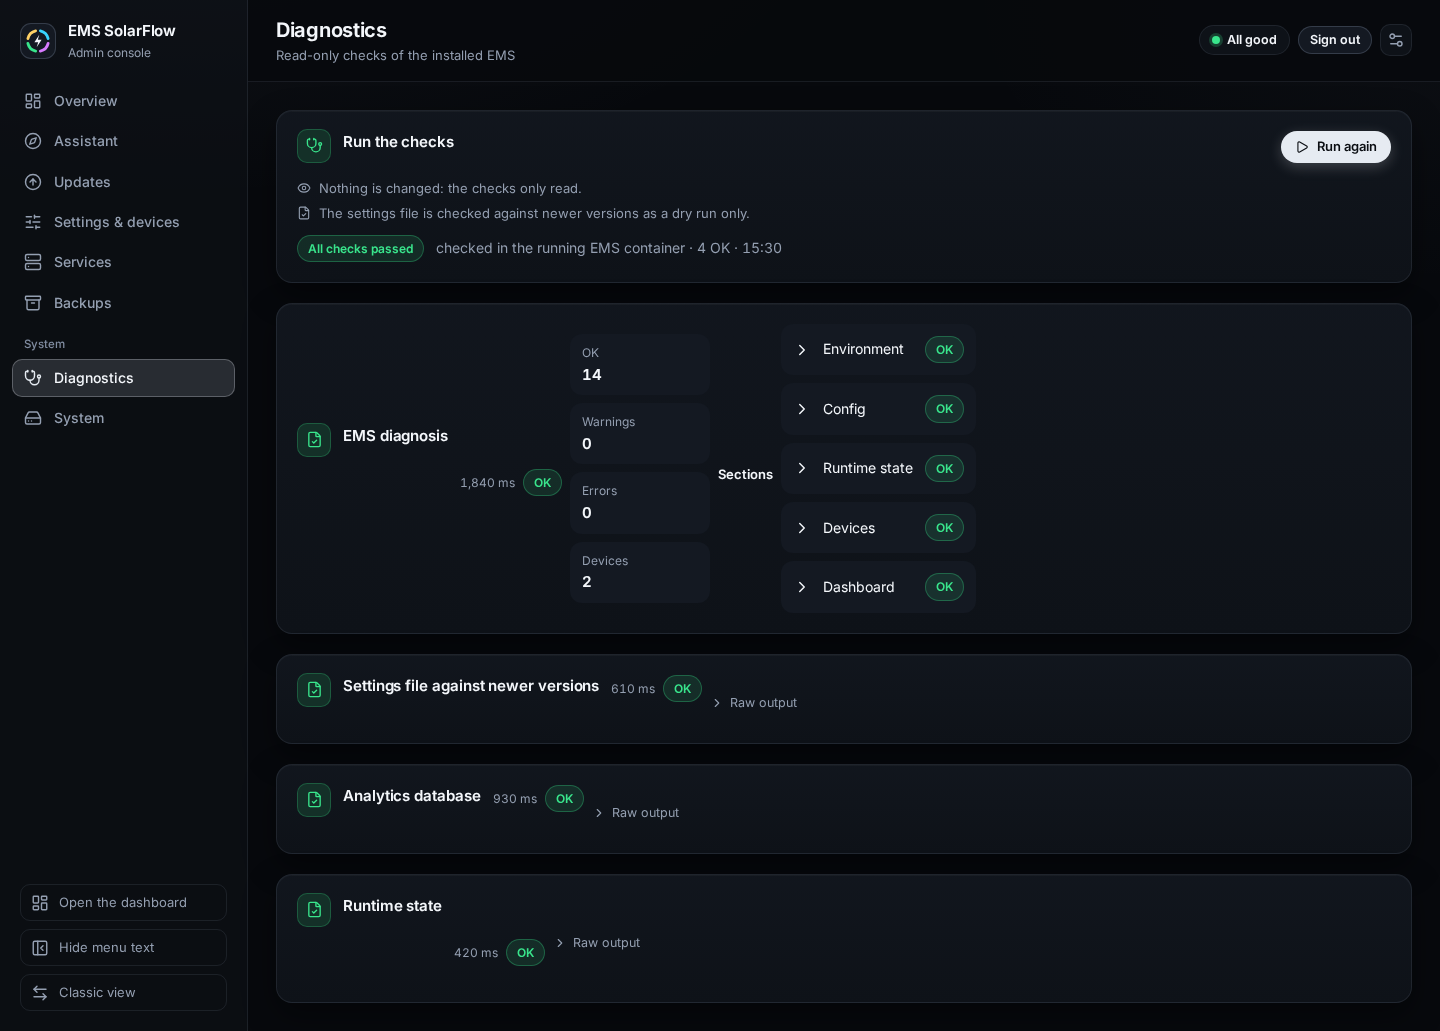
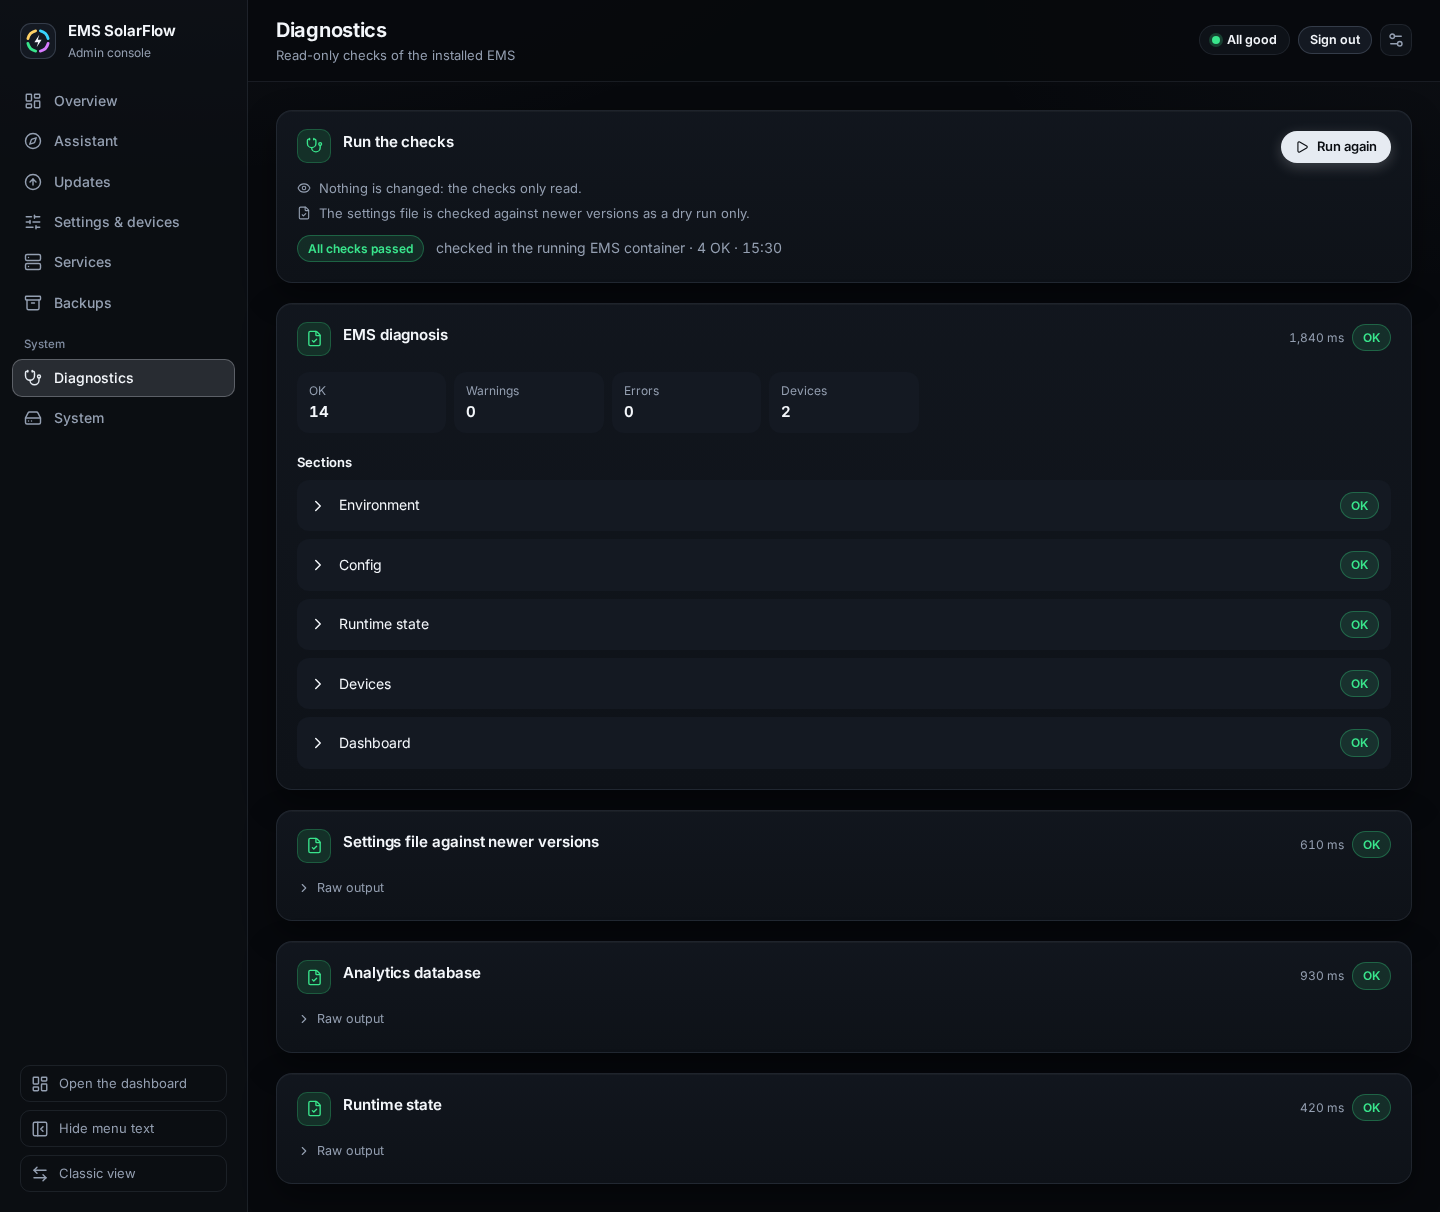
fix(admin-modern): the diagnostics check cards no longer take the checkbox label's layout
Each check's card carried the class "check", which the shared styles give
to a checkbox label: inline-flex in one row with a pointer cursor. The
title, the status, the counts and the sections of a check sat side by side.
The class served nothing and is gone, and a shared test now refuses a card
class that the shared styles already style.

diff --git a/admin/static/modern/assets/Diagnostics.js b/admin/static/modern/assets/Diagnostics.js
@@ -2,4 +2,4 @@
 import{$ as e,C as t,D as n,E as r,F as i,G as a,H as o,M as s,N as c,O as l,T as u,U as d,W as f,X as p,b as m,et as h,g,it as _,j as v,n as y,nt as b,x,z as S}from"./vendor.js";import{D as C,H as w,O as T,a as E,k as D,n as O,r as k,t as A}from"./Status.js";import{dt as j,ut as M}from"./admin.js";var N=l(`<div class="fact"><div class="fact-label"> </div><div class="fact-value num"> </div></div>`),P=l(`<div class="metrics svelte-1p044au"></div>`),F=l(`<div class="hint svelte-1p044au"><!><span lang="en"> </span></div>`),I=l(`<div class="cause inner svelte-1p044au"><!> <div><div class="cause-title svelte-1p044au" lang="en"> </div> <div class="muted" lang="en"> </div> <!></div></div>`),L=l(`<h3 class="sub svelte-1p044au"> </h3> <div class="causes svelte-1p044au"></div>`,1),R=l(`<li lang="en" class="svelte-1p044au"> </li>`),z=l(`<h3 class="sub svelte-1p044au"> </h3> <ul></ul>`,1),B=l(`<li class="error svelte-1p044au"><b> </b> · <span lang="en"> </span></li>`),V=l(`<li class="warning svelte-1p044au"><b> </b> · <span lang="en"> </span></li>`),H=l(`<ul class="lines svelte-1p044au"><!> <!></ul>`),U=l(`<p class="muted small svelte-1p044au"> </p>`),ee=l(`<details class="section inner svelte-1p044au"><summary class="svelte-1p044au"><!><span class="ellipsis" lang="en"> </span><!></summary> <!></details>`),te=l(`<div class="sections svelte-1p044au"></div>`),ne=l(`<!> <!> <!> <h3 class="sub svelte-1p044au"> </h3> <!>`,1);function W(s,c){h(c,!0);let l={ok:`c-ok`,warning:`c-warn`,error:`c-fault`,info:`c-idle`},v=[`info`,`warning`,`error`],y=[`ok`,`warning`,`error`,`devices`],C=e=>l[String(e||``).toLowerCase()]||`c-idle`;function E(e){return v.includes(e||`info`)?T(`diagnose.status.${e||`info`}`):e}function D(e){let t=[`ok`,`warning`,`error`,`info`].includes(e);return T(`diagnose.status.${t?e:`unknown`}`)}function k(e){let t=e=>y.includes(e)?y.indexOf(e):y.length;return Object.entries(e).sort(([e],[n])=>t(e)-t(n)||e.localeCompare(n))}function j(e){if(y.includes(e))return T(`diagnose.metric.${e}`);let t=e.replaceAll(`_`,` `);return t.charAt(0).toUpperCase()+t.slice(1)}var M=ne(),W=d(M),G=e=>{var t=P();m(t,21,()=>k(c.diagnosis.metrics),([e,t])=>e,(e,t)=>{var n=p(()=>_(i(t),2));let s=()=>i(n)[0],c=()=>i(n)[1];var l=N(),d=o(l),m=f(d,!0),h=a(d),g=f(h,!0);b(l),S((e,t)=>{u(m,e),u(g,t)},[()=>j(s()),()=>String(c())]),r(e,l)}),b(t),r(e,t)},K=p(()=>c.diagnosis.metrics&&Object.keys(c.diagnosis.metrics).length);t(W,e=>{i(K)&&e(G)});var q=a(W,2),J=e=>{var n=L(),s=d(n),l=f(s,!0),h=a(s,2);m(h,21,()=>c.diagnosis.root_causes,x,(e,n)=>{var s=I(),c=o(s);{let e=p(()=>C(i(n).severity===`info`?`info`:i(n).severity)),t=p(()=>E(i(n).severity));A(c,{get tone(){return i(e)},get text(){return i(t)}})}var l=a(c,2),d=o(l),m=f(d,!0),h=a(d,2),g=f(h,!0),_=a(h,2),v=e=>{var t=F(),s=o(t);w(s,{name:`info`,size:`sm`});var c=a(s),l=f(c,!0);b(t),S(()=>u(l,i(n).suggested_next_check)),r(e,t)};t(_,e=>{i(n).suggested_next_check&&e(v)}),b(l),b(s),S(()=>{u(m,i(n).title||i(n).code),u(g,i(n).message)}),r(e,s)}),b(h),S(e=>u(l,e),[()=>T(`diagnose.rootCauses`)]),r(e,n)};t(q,e=>{c.diagnosis.root_causes?.length&&e(J)});var Y=a(q,2);m(Y,16,()=>[[`errors`,`error`],[`warnings`,`warning`]],([e,t])=>e,(e,o)=>{var s=p(()=>_(o,2));let l=()=>i(s)[0],h=()=>i(s)[1];var v=n(),y=d(v),C=e=>{var t=z(),n=d(t),o=f(n,!0),s=a(n,2);m(s,21,()=>c.diagnosis[l()],x,(e,t)=>{var n=R(),a=f(n,!0);S(()=>u(a,i(t))),r(e,n)}),b(s),S(e=>{u(o,e),g(s,1,`lines ${h()??``}`,`svelte-1p044au`)},[()=>T(`diagnose.global.${l()}`)]),r(e,t)};t(y,e=>{c.diagnosis[l()]?.length&&e(C)}),r(e,v)});var X=a(Y,2),Z=f(X,!0),Q=a(X,2),re=e=>{var n=te();m(n,21,()=>c.diagnosis.sections,e=>e.id||e.title,(e,n)=>{var s=ee(),c=o(s),l=o(c);w(l,{name:`chevron-right`});var d=a(l),h=f(d,!0),g=a(d);{let e=p(()=>C(i(n).status)),t=p(()=>D(i(n).status));A(g,{get tone(){return i(e)},get text(){return i(t)}})}b(c);var _=a(c,2),v=e=>{var t=H(),s=o(t);m(s,19,()=>i(n).errors||[],(e,t)=>`e${t}`,(e,t)=>{var n=B(),s=o(n),c=f(s,!0),l=a(s,2),d=f(l,!0);b(n),S(e=>{u(c,e),u(d,i(t))},[()=>T(`diagnose.status.error`)]),r(e,n)});var c=a(s,2);m(c,19,()=>i(n).warnings||[],(e,t)=>`w${t}`,(e,t)=>{var n=V(),s=o(n),c=f(s,!0),l=a(s,2),d=f(l,!0);b(n),S(e=>{u(c,e),u(d,i(t))},[()=>T(`diagnose.status.warning`)]),r(e,n)}),b(t),r(e,t)},y=e=>{var t=U(),n=f(t,!0);S(e=>u(n,e),[()=>T(`diagnose.sectionOk`)]),r(e,t)};t(_,e=>{i(n).errors?.length||i(n).warnings?.length?e(v):e(y,-1)}),b(s),S(()=>{s.open=i(n).status!==`ok`,u(h,i(n).title||i(n).id)}),r(e,s)}),b(n),r(e,n)},$=e=>{{let t=p(()=>T(`diagnose.noSections`));O(e,{get text(){return i(t)}})}};t(Q,e=>{c.diagnosis.sections?.length?e(re):e($,-1)}),S(e=>u(Z,e),[()=>T(`diagnose.sections`)]),r(s,M),e()}var G=Object.freeze([`quick_diagnose`,`config_upgrade_dry_run`,`influx_status`,`runtime_status`]),K=Object.freeze({ok:`c-ok`,disabled:`c-idle`,warning:`c-warn`,failed:`c-fault`,timeout:`c-fault`,unavailable:`c-idle`,not_run:`c-idle`}),q=Object.freeze([`container`,`local`,`unavailable`]),J=Object.freeze({"EMS CLI diagnostics are unavailable because no running EMS container or local emsctl.py was found.":`diagnostics.unavailable`});function Y(e){let t=typeof e==`string`?e.trim():``;return!t||Object.hasOwn(J,t)?{key:J[t]||`diagnostics.unavailable`,text:``}:{key:null,text:t}}function X(e){return String(e||``).split(`
 `).map(e=>e.trim()).find(Boolean)||``}function Z(e){let t=String(e?.id||``),n=Object.hasOwn(K,e?.status)?e.status:`not_run`,r=typeof e?.message==`string`?e.message:``,i=``;!r&&n===`timeout`?i=`diagnostics.timedOut`:!r&&n!==`ok`&&(r=X(e?.stderr)||(n===`unavailable`?``:X(e?.stdout)),!r&&n===`unavailable`?i=`diagnostics.couldNotRun`:!r&&typeof e?.exit_code==`number`&&(i=`diagnostics.exitCode`));let a=[e?.stdout?String(e.stdout):``,e?.stderr?`stderr:\n${e.stderr}`:``].filter(Boolean).join(`
 
-`);return{id:t,nameKey:G.includes(t)?`diagnostics.check.${t}`:null,name:String(e?.label||t),status:n,tone:K[n],durationMs:typeof e?.duration_ms==`number`?e.duration_ms:null,message:r,messageKey:i,exitCode:e?.exit_code,raw:a,truncated:!!e?.truncated,diagnosis:t===`quick_diagnose`&&e?.json&&typeof e.json==`object`&&e.json.diagnosis||null}}function Q(e){return e?e.status===`ok`?`c-ok`:e.status===`failed`?`c-fault`:e.status===`warning`?`c-warn`:`c-idle`:`c-idle`}var re=l(`<button class="btn" type="button" data-testid="run-checks"><!> </button>`),$=l(`<span lang="en"> </span>`),ie=l(`<p><!><!></p>`),ae=l(`<div class="summary svelte-10pnqvv" data-testid="diagnostics-summary"><!> <span class="muted num"> </span></div> <!>`,1),oe=l(`<p class="muted"> </p>`),se=l(`<ul class="promises svelte-10pnqvv"><li class="svelte-10pnqvv"><!> </li> <li class="svelte-10pnqvv"><!> </li></ul> <!> <!>`,1),ce=l(`<span class="muted num small svelte-10pnqvv"> </span>`),le=l(`<!> <!>`,1),ue=l(`<p class="message svelte-10pnqvv"><!></p>`),de=l(`<details class="more"><summary><!> </summary> <pre class="body svelte-10pnqvv"> </pre></details>`),fe=l(`<!> <!> <!>`,1);function pe(n,s){h(s,!0);let l=p(C),_=p(()=>M.result),x=p(()=>M.at),N=p(()=>M.running),P=p(()=>M.error?E(M.error,T,T(`diagnostics.failed`)):null),F=p(()=>(Array.isArray(i(_)?.checks)?i(_).checks:[]).map(Z)),I=p(()=>q.includes(i(_)?.mode)?i(_).mode:`unavailable`),L=p(()=>i(_)&&!i(_).available?Y(i(_).message):null),R=p(z);function z(){return i(P)?`c-fault`:i(L)&&!i(L).key?`c-warn`:i(_)?.available&&Q(i(_).summary)!==`c-idle`?Q(i(_).summary):`c-out`}function B(e){return[`ok`,`disabled`,`warning`,`failed`,`unavailable`].filter(t=>Number(e?.[t])>0).map(t=>D(`diagnostics.count.${t}`,e[t])).join(` · `)}var V=le(),H=d(V);{let e=e=>{var t=re(),n=o(t);{let e=p(()=>i(N)?`loader`:`play`);w(n,{get name(){return i(e)},size:`sm`})}var s=a(n,1,!0);b(t),S(e=>{t.disabled=i(N),u(s,e)},[()=>i(N)?T(`diagnostics.running`):i(_)?T(`diagnostics.runAgain`):T(`diagnostics.run`)]),c(`click`,t,function(...e){j?.apply(this,e)}),r(e,t)},n=p(()=>T(`diagnostics.title`));k(H,{icon:`stethoscope`,get tone(){return i(R)},get title(){return i(n)},span:`span-12`,actions:e,children:(e,n)=>{var s=se(),c=d(s),m=o(c),h=o(m);w(h,{name:`eye`,size:`sm`});var C=a(h,1,!0);b(m);var E=a(m,2),D=o(E);w(D,{name:`file-check`,size:`sm`});var k=a(D,1,!0);b(E),b(c);var j=a(c,2),M=e=>{O(e,y({error:!0},()=>i(P)))};t(j,e=>{i(P)&&e(M)});var F=a(j,2),R=e=>{var n=ae(),s=d(n),c=o(s);{let e=p(()=>i(_).available?Q(i(_).summary):`c-idle`),t=p(()=>i(_).available?T(`diagnostics.overall.${[`ok`,`warning`,`failed`].includes(i(_).summary?.status)?i(_).summary.status:`unavailable`}`):T(`diagnostics.overall.unavailable`));A(c,{get tone(){return i(e)},get text(){return i(t)}})}var m=a(c,2),h=f(m,!0);b(s);var y=a(s,2),C=e=>{var n=ie();let s;var c=o(n);{let e=p(()=>i(L).key?`info`:`triangle-alert`);w(c,{get name(){return i(e)}})}var l=a(c),d=e=>{var t=v();S(e=>u(t,e),[()=>T(i(L).key)]),r(e,t)},m=e=>{var t=$(),n=f(t,!0);S(()=>u(n,i(L).text)),r(e,t)};t(l,e=>{i(L).key?e(d):e(m,-1)}),b(n),S(()=>s=g(n,1,`note`,null,s,{warn:!i(L).key})),r(e,n)};t(y,e=>{i(L)&&e(C)}),S(e=>u(h,e),[()=>[i(L)&&!i(L).key?``:T(`diagnostics.mode.${i(I)}`),B(i(_).summary),i(x)?i(l).when(i(x)):``].filter(Boolean).join(` · `)]),r(e,n)},z=e=>{var t=oe(),n=f(t,!0);S(e=>u(n,e),[()=>T(`diagnostics.notRun`)]),r(e,t)};t(F,e=>{i(_)?e(R):!i(N)&&!i(P)&&e(z,1)}),S((e,t)=>{u(C,e),u(k,t)},[()=>T(`diagnostics.readOnly`),()=>T(`diagnostics.dryRun`)]),r(e,s)},$$slots:{actions:!0,default:!0}})}var U=a(H,2);m(U,17,()=>i(F),e=>e.id,(e,n)=>{{let s=e=>{var o=le(),s=d(o),c=e=>{var t=ce(),a=f(t);S(e=>u(a,`${e??``} ms`),[()=>i(l).number(i(n).durationMs)]),r(e,t)};t(s,e=>{i(n).durationMs!==null&&e(c)});var m=a(s,2);{let e=p(()=>T(`diagnostics.status.${i(n).status}`));A(m,{get tone(){return i(n).tone},get text(){return i(e)}})}r(e,o)},c=p(()=>i(n).nameKey?T(i(n).nameKey):i(n).name);k(e,{icon:`file-check`,get tone(){return i(n).tone},get title(){return i(c)},span:`span-12`,className:`check`,actions:s,children:(e,s)=>{var c=fe(),l=d(c),p=e=>{var a=ue(),s=o(a),c=e=>{var t=v();S(e=>u(t,e),[()=>T(i(n).messageKey,{code:i(n).exitCode})]),r(e,t)},l=e=>{var t=$(),a=f(t,!0);S(()=>u(a,i(n).message)),r(e,t)};t(s,e=>{i(n).messageKey?e(c):e(l,-1)}),b(a),r(e,a)};t(l,e=>{(i(n).message||i(n).messageKey)&&e(p)});var m=a(l,2),h=e=>{W(e,{get diagnosis(){return i(n).diagnosis}})};t(m,e=>{i(n).diagnosis&&e(h)});var g=a(m,2),_=e=>{var t=de(),s=o(t),c=o(s);w(c,{name:`chevron-right`});var l=a(c,1,!0);b(s);var d=a(s,2),p=f(d,!0);b(t),S(e=>{u(l,e),u(p,i(n).raw)},[()=>i(n).truncated?T(`diagnostics.rawTruncated`):T(`diagnostics.raw`)]),r(e,t)};t(g,e=>{i(n).raw&&e(_)}),r(e,c)},$$slots:{actions:!0,default:!0}})}}),r(n,V),e()}s([`click`]);export{pe as default};
+`);return{id:t,nameKey:G.includes(t)?`diagnostics.check.${t}`:null,name:String(e?.label||t),status:n,tone:K[n],durationMs:typeof e?.duration_ms==`number`?e.duration_ms:null,message:r,messageKey:i,exitCode:e?.exit_code,raw:a,truncated:!!e?.truncated,diagnosis:t===`quick_diagnose`&&e?.json&&typeof e.json==`object`&&e.json.diagnosis||null}}function Q(e){return e?e.status===`ok`?`c-ok`:e.status===`failed`?`c-fault`:e.status===`warning`?`c-warn`:`c-idle`:`c-idle`}var re=l(`<button class="btn" type="button" data-testid="run-checks"><!> </button>`),$=l(`<span lang="en"> </span>`),ie=l(`<p><!><!></p>`),ae=l(`<div class="summary svelte-10pnqvv" data-testid="diagnostics-summary"><!> <span class="muted num"> </span></div> <!>`,1),oe=l(`<p class="muted"> </p>`),se=l(`<ul class="promises svelte-10pnqvv"><li class="svelte-10pnqvv"><!> </li> <li class="svelte-10pnqvv"><!> </li></ul> <!> <!>`,1),ce=l(`<span class="muted num small svelte-10pnqvv"> </span>`),le=l(`<!> <!>`,1),ue=l(`<p class="message svelte-10pnqvv"><!></p>`),de=l(`<details class="more"><summary><!> </summary> <pre class="body svelte-10pnqvv"> </pre></details>`),fe=l(`<!> <!> <!>`,1);function pe(n,s){h(s,!0);let l=p(C),_=p(()=>M.result),x=p(()=>M.at),N=p(()=>M.running),P=p(()=>M.error?E(M.error,T,T(`diagnostics.failed`)):null),F=p(()=>(Array.isArray(i(_)?.checks)?i(_).checks:[]).map(Z)),I=p(()=>q.includes(i(_)?.mode)?i(_).mode:`unavailable`),L=p(()=>i(_)&&!i(_).available?Y(i(_).message):null),R=p(z);function z(){return i(P)?`c-fault`:i(L)&&!i(L).key?`c-warn`:i(_)?.available&&Q(i(_).summary)!==`c-idle`?Q(i(_).summary):`c-out`}function B(e){return[`ok`,`disabled`,`warning`,`failed`,`unavailable`].filter(t=>Number(e?.[t])>0).map(t=>D(`diagnostics.count.${t}`,e[t])).join(` · `)}var V=le(),H=d(V);{let e=e=>{var t=re(),n=o(t);{let e=p(()=>i(N)?`loader`:`play`);w(n,{get name(){return i(e)},size:`sm`})}var s=a(n,1,!0);b(t),S(e=>{t.disabled=i(N),u(s,e)},[()=>i(N)?T(`diagnostics.running`):i(_)?T(`diagnostics.runAgain`):T(`diagnostics.run`)]),c(`click`,t,function(...e){j?.apply(this,e)}),r(e,t)},n=p(()=>T(`diagnostics.title`));k(H,{icon:`stethoscope`,get tone(){return i(R)},get title(){return i(n)},span:`span-12`,actions:e,children:(e,n)=>{var s=se(),c=d(s),m=o(c),h=o(m);w(h,{name:`eye`,size:`sm`});var C=a(h,1,!0);b(m);var E=a(m,2),D=o(E);w(D,{name:`file-check`,size:`sm`});var k=a(D,1,!0);b(E),b(c);var j=a(c,2),M=e=>{O(e,y({error:!0},()=>i(P)))};t(j,e=>{i(P)&&e(M)});var F=a(j,2),R=e=>{var n=ae(),s=d(n),c=o(s);{let e=p(()=>i(_).available?Q(i(_).summary):`c-idle`),t=p(()=>i(_).available?T(`diagnostics.overall.${[`ok`,`warning`,`failed`].includes(i(_).summary?.status)?i(_).summary.status:`unavailable`}`):T(`diagnostics.overall.unavailable`));A(c,{get tone(){return i(e)},get text(){return i(t)}})}var m=a(c,2),h=f(m,!0);b(s);var y=a(s,2),C=e=>{var n=ie();let s;var c=o(n);{let e=p(()=>i(L).key?`info`:`triangle-alert`);w(c,{get name(){return i(e)}})}var l=a(c),d=e=>{var t=v();S(e=>u(t,e),[()=>T(i(L).key)]),r(e,t)},m=e=>{var t=$(),n=f(t,!0);S(()=>u(n,i(L).text)),r(e,t)};t(l,e=>{i(L).key?e(d):e(m,-1)}),b(n),S(()=>s=g(n,1,`note`,null,s,{warn:!i(L).key})),r(e,n)};t(y,e=>{i(L)&&e(C)}),S(e=>u(h,e),[()=>[i(L)&&!i(L).key?``:T(`diagnostics.mode.${i(I)}`),B(i(_).summary),i(x)?i(l).when(i(x)):``].filter(Boolean).join(` · `)]),r(e,n)},z=e=>{var t=oe(),n=f(t,!0);S(e=>u(n,e),[()=>T(`diagnostics.notRun`)]),r(e,t)};t(F,e=>{i(_)?e(R):!i(N)&&!i(P)&&e(z,1)}),S((e,t)=>{u(C,e),u(k,t)},[()=>T(`diagnostics.readOnly`),()=>T(`diagnostics.dryRun`)]),r(e,s)},$$slots:{actions:!0,default:!0}})}var U=a(H,2);m(U,17,()=>i(F),e=>e.id,(e,n)=>{{let s=e=>{var o=le(),s=d(o),c=e=>{var t=ce(),a=f(t);S(e=>u(a,`${e??``} ms`),[()=>i(l).number(i(n).durationMs)]),r(e,t)};t(s,e=>{i(n).durationMs!==null&&e(c)});var m=a(s,2);{let e=p(()=>T(`diagnostics.status.${i(n).status}`));A(m,{get tone(){return i(n).tone},get text(){return i(e)}})}r(e,o)},c=p(()=>i(n).nameKey?T(i(n).nameKey):i(n).name);k(e,{icon:`file-check`,get tone(){return i(n).tone},get title(){return i(c)},span:`span-12`,actions:s,children:(e,s)=>{var c=fe(),l=d(c),p=e=>{var a=ue(),s=o(a),c=e=>{var t=v();S(e=>u(t,e),[()=>T(i(n).messageKey,{code:i(n).exitCode})]),r(e,t)},l=e=>{var t=$(),a=f(t,!0);S(()=>u(a,i(n).message)),r(e,t)};t(s,e=>{i(n).messageKey?e(c):e(l,-1)}),b(a),r(e,a)};t(l,e=>{(i(n).message||i(n).messageKey)&&e(p)});var m=a(l,2),h=e=>{W(e,{get diagnosis(){return i(n).diagnosis}})};t(m,e=>{i(n).diagnosis&&e(h)});var g=a(m,2),_=e=>{var t=de(),s=o(t),c=o(s);w(c,{name:`chevron-right`});var l=a(c,1,!0);b(s);var d=a(s,2),p=f(d,!0);b(t),S(e=>{u(l,e),u(p,i(n).raw)},[()=>i(n).truncated?T(`diagnostics.rawTruncated`):T(`diagnostics.raw`)]),r(e,t)};t(g,e=>{i(n).raw&&e(_)}),r(e,c)},$$slots:{actions:!0,default:!0}})}}),r(n,V),e()}s([`click`]);export{pe as default};

diff --git a/frontend/shared/tests/card-classes.test.js b/frontend/shared/tests/card-classes.test.js
@@ -1,0 +1,46 @@
+// SPDX-License-Identifier: AGPL-3.0-or-later
+import test from "node:test";
+import assert from "node:assert/strict";
+import { readdirSync, readFileSync, statSync } from "node:fs";
+import { dirname, join, relative } from "node:path";
+import { fileURLToPath } from "node:url";
+import { parse } from "svelte/compiler";
+
+const FRONTEND = join(dirname(fileURLToPath(import.meta.url)), "../..");
+const ROOTS = ["admin-modern/src", "appliance-modern/src", "dashboard-modern/src", "shared"];
+const GLOBAL_STYLES = ["shared/styles/base.css", "appliance-modern/src/styles.css"];
+const SHARED_CLASSES = new Set(GLOBAL_STYLES.flatMap((path) => [...readFileSync(join(FRONTEND, path), "utf8").matchAll(/\.([a-z][\w-]*)/g)].map((match) => match[1])));
+
+function sources(dir) {
+  return readdirSync(dir).flatMap((name) => {
+    const path = join(dir, name);
+    if (name === "node_modules") return [];
+    if (statSync(path).isDirectory()) return sources(path);
+    return name.endsWith(".svelte") ? [path] : [];
+  });
+}
+
+/** The class names a page hands a Card, where they are written as text. */
+function cardClasses(text) {
+  const found = [];
+  const visit = (node) => {
+    if (node?.type === "Component" && node.name === "Card") {
+      for (const attribute of node.attributes || []) {
+        if (attribute.name !== "className" || !Array.isArray(attribute.value)) continue;
+        for (const part of attribute.value) if (part.type === "Text") found.push(...part.data.split(/\s+/).filter(Boolean));
+      }
+    }
+    for (const value of Object.values(node || {})) {
+      if (value?.type === "Fragment") value.nodes.forEach(visit);
+    }
+  };
+  visit({ fragment: parse(text, { modern: true }).fragment });
+  return found;
+}
+
+test("a card's own class names no class the shared styles give a look of their own", () => {
+  assert.ok(SHARED_CLASSES.has("check") && SHARED_CLASSES.has("card"));
+  assert.deepEqual(cardClasses('<Card className="check wide" />'), ["check", "wide"]);
+  const clashes = ROOTS.flatMap((root) => sources(join(FRONTEND, root))).flatMap((path) => cardClasses(readFileSync(path, "utf8")).filter((name) => SHARED_CLASSES.has(name)).map((name) => `${relative(FRONTEND, path)}: ${name}`));
+  assert.deepEqual(clashes, []);
+});

diff --git a/frontend/admin-modern/src/pages/Diagnostics.svelte b/frontend/admin-modern/src/pages/Diagnostics.svelte
@@ -59,7 +59,7 @@
 </Card>
 
 {#each checks as check (check.id)}
-  <Card icon="file-check" tone={check.tone} title={check.nameKey ? t(check.nameKey) : check.name} span="span-12" className="check">
+  <Card icon="file-check" tone={check.tone} title={check.nameKey ? t(check.nameKey) : check.name} span="span-12">
     {#snippet actions()}
       {#if check.durationMs !== null}<span class="muted num small">{f.number(check.durationMs)} ms</span>{/if}
       <Status tone={check.tone} text={t(`diagnostics.status.${check.status}`)} />
